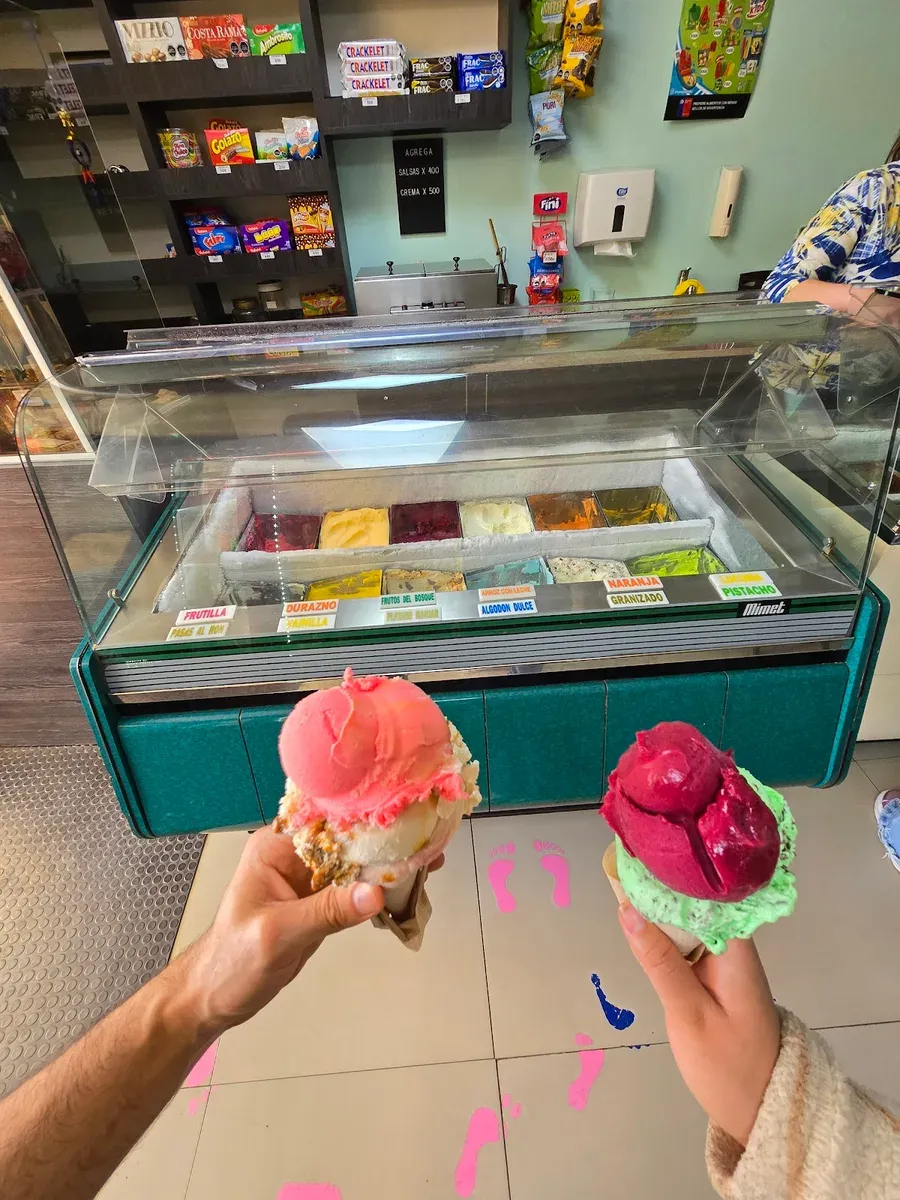
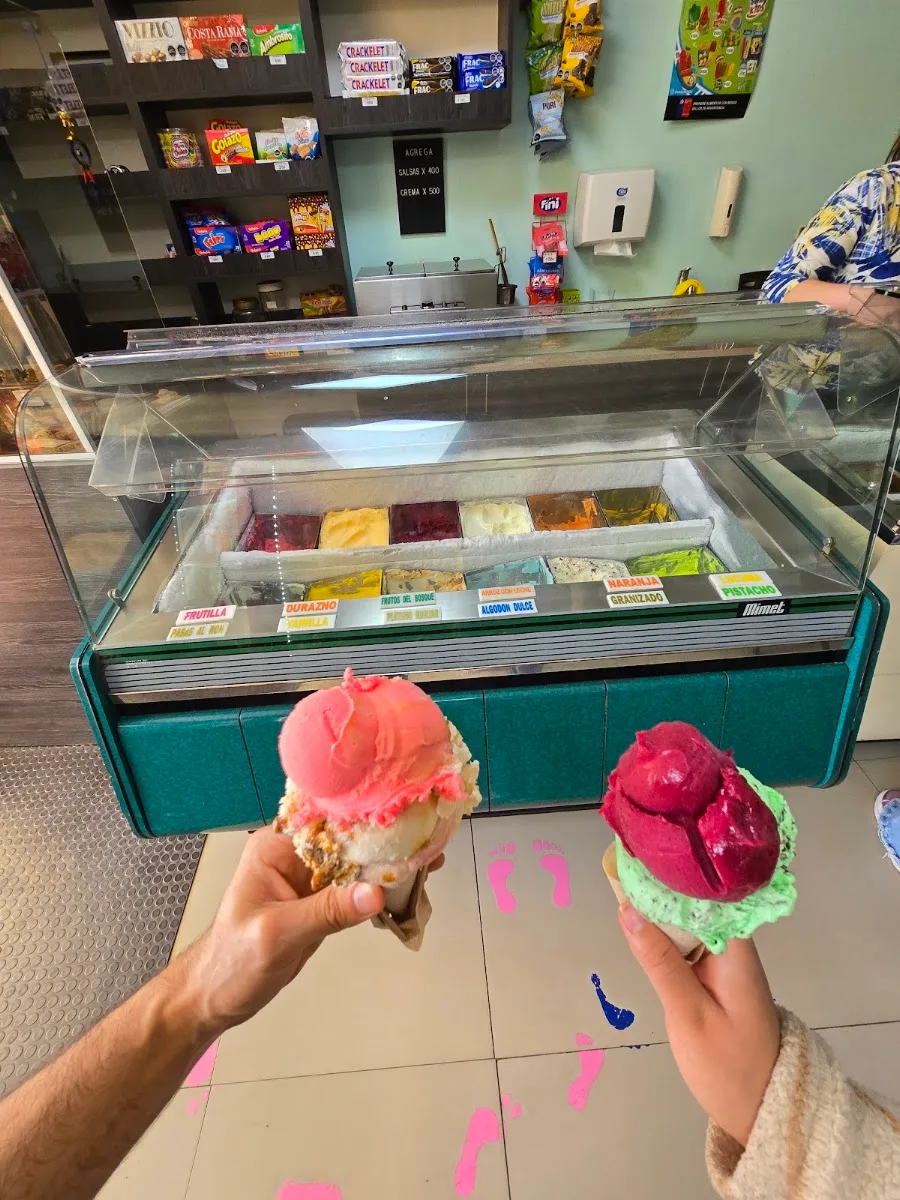
demo(fabrica-de-helados-la-montana): reemplaza fotos duplicadas por 3 reales nuevas de su ficha de Maps (par, interior, terraza)

diff --git a/app/demos/fabrica-de-helados-la-montana/page.tsx b/app/demos/fabrica-de-helados-la-montana/page.tsx
@@ -49,8 +49,8 @@ const VITRINA = [
   { src: `${IMG}/vitrina.webp`, alt: 'Vitrina de sabores de helado de La Montaña' },
   { src: `${IMG}/conos.webp`, alt: 'Conos de helado de dos bolas frente a la vitrina' },
   { src: `${IMG}/sabores.webp`, alt: 'Cubetas de helado artesanal de distintos sabores' },
-  { src: `${IMG}/par.webp`, alt: 'Dos conos de helado, uno rosado y uno rojo, en la vitrina' },
-  { src: `${IMG}/interior.webp`, alt: 'Interior de la heladería con mesas y sillas teal' },
+  { src: `${IMG}/par.webp`, alt: 'Dos conos de helado, uno rosado y uno morado, frente a la vitrina' },
+  { src: `${IMG}/interior.webp`, alt: 'Interior de La Montaña: las vitrinas de sabores y el mesón' },
   { src: `${IMG}/barquillo.webp`, alt: 'Cono de helado morado recién servido' },
 ]
 
@@ -247,7 +247,7 @@ export default function Page() {
             </p>
             <div className="rounded-2xl overflow-hidden aspect-[4/3]">
               {/* eslint-disable-next-line @next/next/no-img-element -- ya optimizado */}
-              <img src={`${IMG}/interior.webp`} alt="Interior de La Montaña con mesas blancas y sillas teal" loading="lazy" className="w-full h-full object-cover" />
+              <img src={`${IMG}/terraza.webp`} alt="Dos conos de helado sobre la mesa de la terraza de La Montaña" loading="lazy" className="w-full h-full object-cover" />
             </div>
           </Reveal>
         </div>
